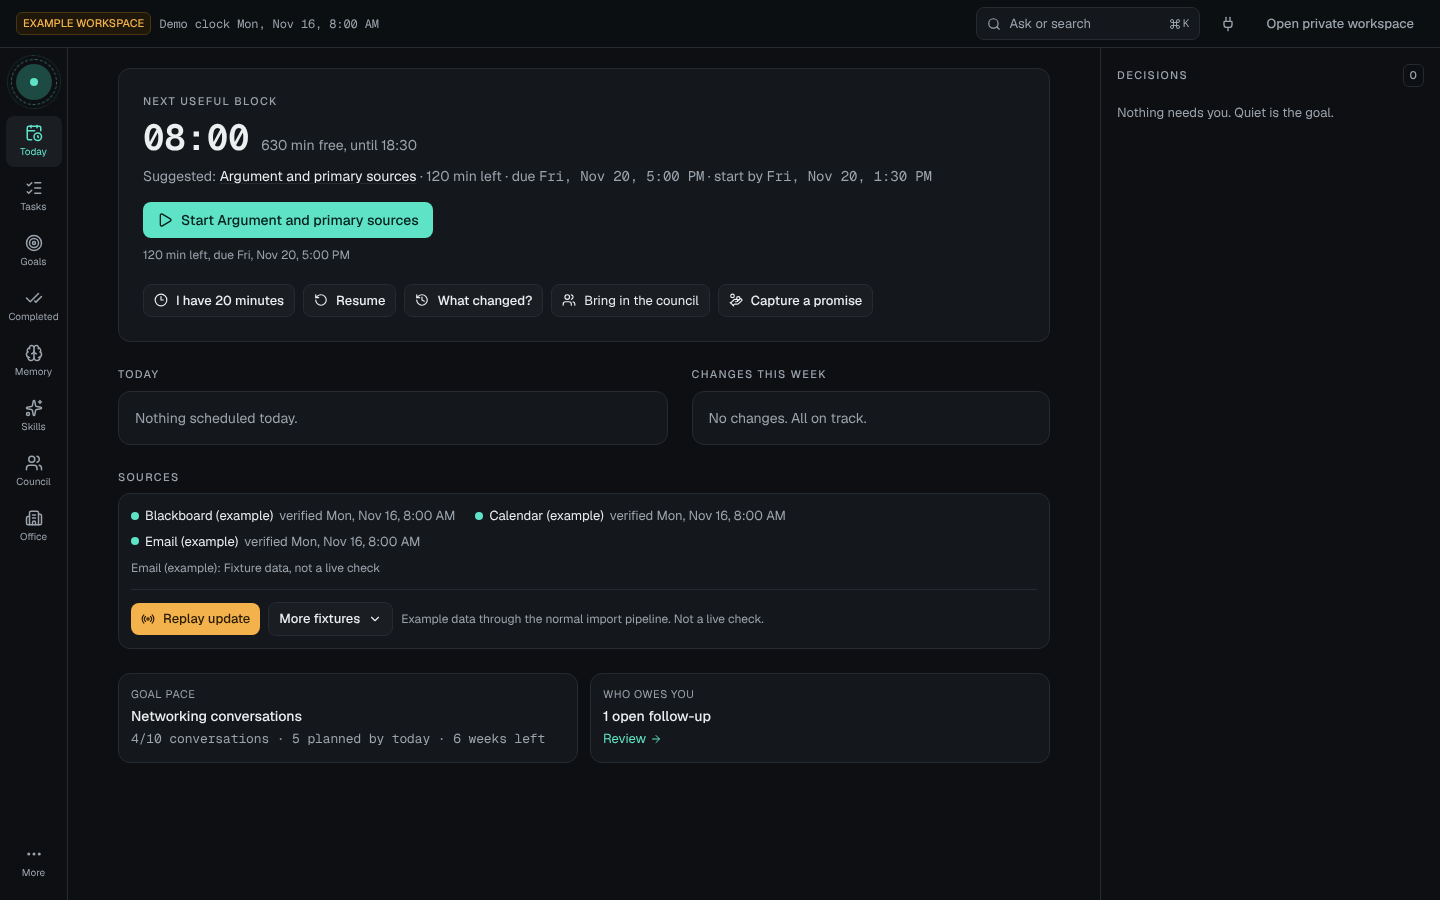
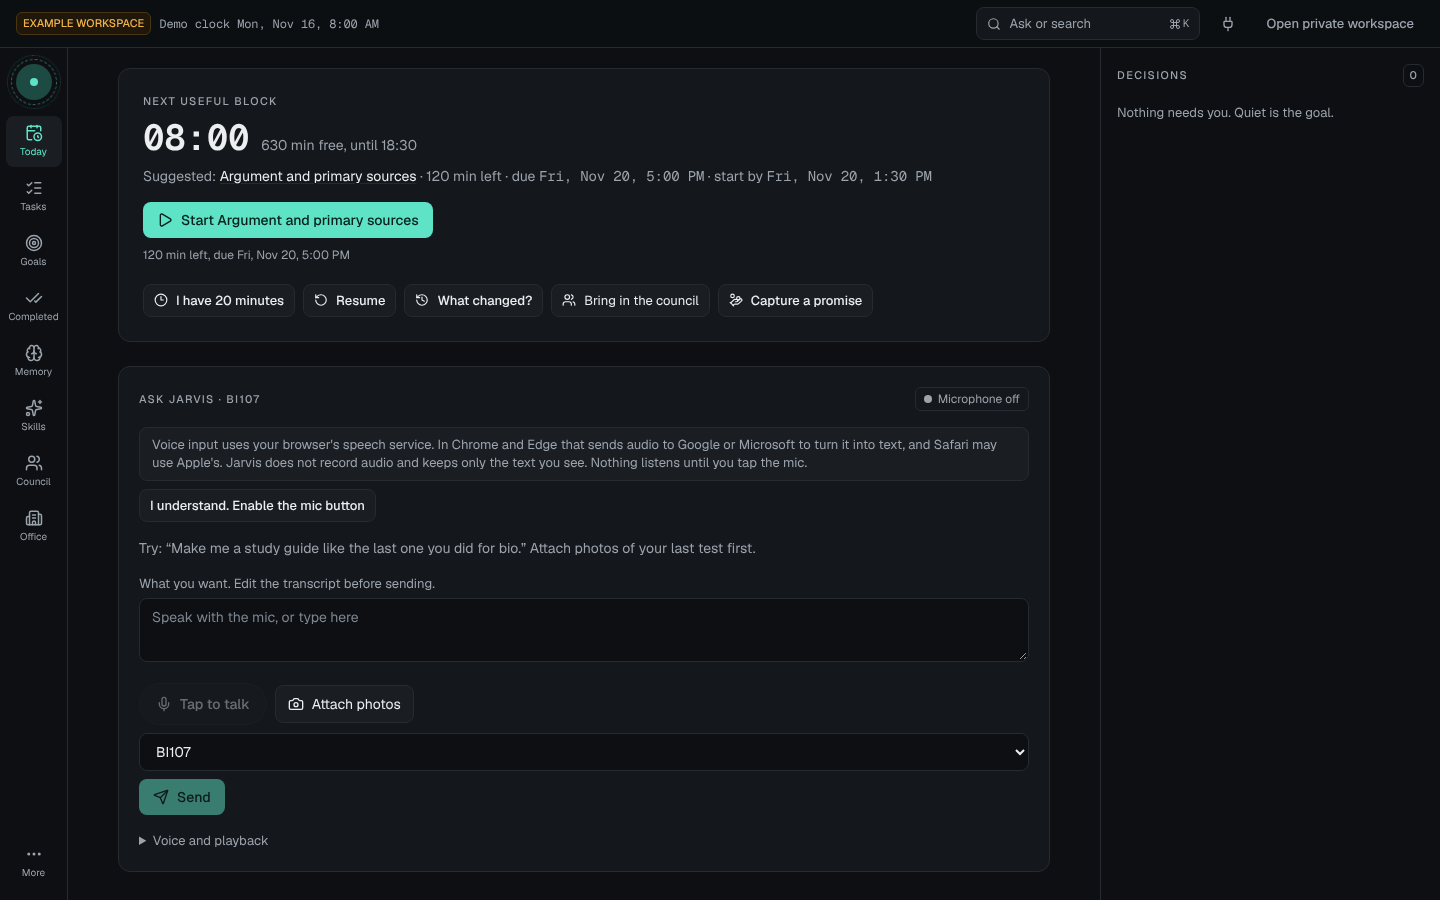
Reset clears Office, capture and study tables; docs for capture and Mac checklist

diff --git a/scripts/e2e.ts b/scripts/e2e.ts
@@ -20,7 +20,8 @@ function startWorker(pace: number) {
   stopWorker();
   worker = spawn("npx", ["tsx", "scripts/worker.ts"], { env: { ...process.env, JARVIS_DATA_DIR: dataDir, JARVIS_JOB_PACE_MS: String(pace), JARVIS_JOB_LEASE_MS: "3000" }, stdio: "ignore", detached: true });
 }
-async function restartServer() { const d = dataDir!; stopWorker(); if (server?.pid) { try { process.kill(-server.pid, "SIGTERM"); } catch { /* gone */ } } await new Promise((r) => setTimeout(r, 1200)); await startServer(d); }
+let restarting = false;
+async function restartServer() { restarting = true; const d = dataDir!; stopWorker(); if (server?.pid) { try { process.kill(-server.pid, "SIGTERM"); } catch { /* gone */ } } await new Promise((r) => setTimeout(r, 1200)); await startServer(d); restarting = false; }
 function killServer() { stopWorker(); if (server?.pid) { try { process.kill(-server.pid, "SIGTERM"); } catch { /* already gone */ } } }
 const problems: string[] = [];
 const steps: string[] = [];
@@ -38,9 +39,9 @@ async function startServer(reuseDir?: string) {
 }
 
 function watch(page: Page, label: string) {
-  page.on("console", (m) => { if (m.type() === "error") { const t = m.text(); if (!/favicon/.test(t) && !problems.includes(`console(${label}): ${t}`)) problems.push(`console(${label}): ${t}`); } });
+  page.on("console", (m) => { if (m.type() === "error") { const t = m.text(); if (!(restarting && /ERR_CONNECTION_REFUSED/.test(t)) && !/favicon/.test(t) && !problems.includes(`console(${label}): ${t}`)) problems.push(`console(${label}): ${t}`); } });
   page.on("pageerror", (e) => problems.push(`pageerror(${label}): ${e.message}`));
-  page.on("requestfailed", (r) => { if (!/_next\/webpack-hmr|\.map$/.test(r.url()) && !/ERR_ABORTED/.test(r.failure()?.errorText ?? "")) problems.push(`requestfailed(${label}): ${r.url()} ${r.failure()?.errorText}`); });
+  page.on("requestfailed", (r) => { if (!/_next\/webpack-hmr|\.map$/.test(r.url()) && !/ERR_ABORTED/.test(r.failure()?.errorText ?? "") && !(restarting && /ERR_CONNECTION_REFUSED/.test(r.failure()?.errorText ?? ""))) problems.push(`requestfailed(${label}): ${r.url()} ${r.failure()?.errorText}`); });
   page.on("response", (r) => { if (r.status() >= 400 && !r.url().includes("/__expect")) problems.push(`http ${r.status()}(${label}): ${r.request().method()} ${r.url()}`); });
 }
 const shot = (page: Page, name: string) => page.screenshot({ path: path.join(SHOTS, name), fullPage: false });
@@ -514,7 +515,8 @@ async function journeyA11y(browser: Browser) {
     const ctx = await browser.newContext({ viewport: { width: vp.w, height: vp.h } });
     const page = await ctx.newPage(); watch(page, `a11y-${vp.n}`);
     await post("/demo/reset", { confirm: "RESET DEMO" }); await post("/demo/replay", { name: "bulletin" });
-    for (const p of ["/", "/tasks", "/goals", "/completed", "/memory", "/skills", "/council", "/sources", "/voice", "/settings", "/activity"]) {
+    const gid = (await api("/courses/BI107")).documents.find((d: any) => /Final/.test(d.title))?.id;
+    for (const p of ["/", "/tasks", "/goals", "/completed", "/memory", "/skills", "/council", "/sources", "/voice", "/settings", "/activity", "/office", "/courses", "/courses/BI107", ...(gid ? [`/guides/${gid}`] : [])]) {
       await page.goto(base + p); await page.waitForLoadState("networkidle"); await scan(page, `${p} (${vp.n})`);
     }
     await page.goto(base + (vp.n === "phone" ? "/decisions" : "/")); await page.getByTestId("decision-card").first().waitFor();

diff --git a/tests/study.test.ts b/tests/study.test.ts
@@ -315,3 +315,23 @@ describe("one front door", () => {
     expect(handleUtterance(ctx, { text: "make me a study guide", conversationId: conv }).reply.text).toMatch(/Which course/);
   });
 });
+
+describe("resetting the example workspace", () => {
+  it("clears jobs, captures, conversations, documents, quizzes and photos, so a reset starts from the true Monday state", async () => {
+    const dir = tmpDataDir(); closeDb("demo");
+    const { resetDemo } = await import("@/lib/demo"); const { captureToJarvis } = await import("@/lib/capture");
+    const ctx = makeCtx("demo"); seedDemo(ctx); ensureBi107(ctx);
+    const ph = FIXTURE_PHOTOS().map((p) => saveAttachment(ctx, { course: "BI107", name: p.name, bytes: p.bytes }));
+    captureToJarvis(ctx, { text: "Remember for Jarvis: I owe the TAMID team three pitch angles by Thursday.", sourceKind: "claude-chat" });
+    handleUtterance(ctx, { text: "make me a study guide for BI107", conversationId: getConversation(ctx, null, "BI107").id as string, attachmentIds: ph.map((p) => p.id) });
+    await processQueue(ctx, fast(ctx));
+    const id = get(ctx.db, "SELECT id FROM documents WHERE title='BI107 Final study guide'")!.id as string; startQuiz(ctx, { docId: id, mode: "all" });
+    expect(fs.readdirSync(path.join(dir, "demo", "attachments")).length).toBe(2);
+    resetDemo(ctx);
+    for (const t of ["jobs", "job_steps", "job_events", "captures", "conversations", "messages", "documents", "document_versions", "quiz_attempts", "quiz_answers", "attachments", "specialist_templates"]) expect(count(ctx, t), t).toBe(0);
+    expect(fs.existsSync(path.join(dir, "demo", "attachments"))).toBe(false);
+    seedDemo(ctx); ensureBi107(ctx);
+    expect(get(ctx.db, "SELECT current_version v FROM documents WHERE title='BI107 Midterm study guide'")!.v).toBe(1);   // not v2
+    closeDb("demo");
+  });
+});

diff --git a/src/lib/demo.ts b/src/lib/demo.ts
@@ -120,11 +120,11 @@ export function replay(ctx: Ctx, name: FixtureName) {
   return out;
 }
 
-const TABLES = ["skill_uses", "skill_corrections", "skills", "council_sessions", "goal_observations", "goals", "checkpoints", "practice_results", "time_logs", "advisor_sources", "commitment_events", "commitments", "student_record", "deliveries", "inbox", "decisions", "requirements", "task_events", "task_due_history", "blocks", "tasks", "source_revisions", "source_status", "sources", "courses", "notes", "runs", "activity", "schedule_runs", "import_previews", "settings"];
+const TABLES = ["quiz_answers", "quiz_attempts", "document_versions", "documents", "messages", "conversations", "attachments", "job_events", "job_steps", "jobs", "specialist_templates", "captures", "skill_uses", "skill_corrections", "skills", "council_sessions", "goal_observations", "goals", "checkpoints", "practice_results", "time_logs", "advisor_sources", "commitment_events", "commitments", "student_record", "deliveries", "inbox", "decisions", "requirements", "task_events", "task_due_history", "blocks", "tasks", "source_revisions", "source_status", "sources", "courses", "notes", "runs", "activity", "schedule_runs", "import_previews", "settings"];
 
 /** Erase this workspace's data (not its watched inbox files). Demo reset and personal erase share this and each only touches its own directory. */
 export function wipe(ctx: Ctx) {
-  for (const d of ["vault", "skills"]) fs.rmSync(path.join(/*turbopackIgnore: true*/ modeDir(ctx.mode), d), { recursive: true, force: true });
+  for (const d of ["vault", "skills", "attachments"]) fs.rmSync(path.join(/*turbopackIgnore: true*/ modeDir(ctx.mode), d), { recursive: true, force: true });
   tx(ctx.db, () => { ctx.db.exec("DELETE FROM notes_fts"); for (const t of TABLES) ctx.db.exec(`DELETE FROM ${t}`); });
 }
 

diff --git a/docs/CAPTURE-SETUP.md b/docs/CAPTURE-SETUP.md
@@ -1,0 +1,63 @@
+# Capture from ordinary Claude, and the connector
+
+What this does: you say "Remember for Jarvis: I owe the TAMID team three pitch angles by Thursday." in Claude. Claude calls `save_to_jarvis`. Jarvis saves the commitment at once, returns a receipt with a link, and wakes the supervisor in the Office, which assigns a specialist and puts one decision on your desk. Say it twice and nothing is duplicated.
+
+## Honest limits
+
+- A connector gives Claude two tools. It is **not** a feed of your Claude chats. Jarvis only knows what you asked it to remember, pasted, imported or attached. If you ask for something old and it is missing, Jarvis says exactly what to share.
+- General chats: "Remember for Jarvis" is the explicit trigger. Claude Project auto-save is opt-in and is a Project instruction (below), not something Jarvis can switch on for you.
+- This build ships the connector and tested it with the official MCP client. It has **not** been connected to a real Claude account from here. See "What only you can verify".
+
+## Option A: Claude Desktop on your Mac (stdio, no deployment)
+
+1. Install and set up Jarvis (`npm install`).
+2. In Claude Desktop, open the MCP config and add:
+   ```json
+   { "mcpServers": { "jarvis": { "command": "npx", "args": ["tsx", "/ABSOLUTE/PATH/TO/Jarvis/scripts/mcp-server.ts"], "env": { "JARVIS_MCP_MODE": "demo", "JARVIS_DATA_DIR": "/ABSOLUTE/PATH/TO/Jarvis/data" } } } }
+   ```
+   Use `"personal"` to write to your private workspace. Restart Claude Desktop.
+3. Keep `npm run dev` (or `npm run worker`) running. The stdio server saves captures, and whichever runner is up does the Office work.
+4. In a Claude chat say: `Remember for Jarvis: I owe the TAMID team three pitch angles by Thursday.` Claude should show a `save_to_jarvis` tool call and a receipt with a link.
+
+## Option B: an authenticated HTTP connector (for claude.ai or anything remote)
+
+1. Pick a long random token and start Jarvis with it:
+   ```bash
+   JARVIS_MCP_TOKEN="$(openssl rand -hex 24)" npm run start
+   ```
+2. The endpoint is `POST /mcp` (stateless Streamable HTTP). Every request needs `Authorization: Bearer <token>`. Without the env var it answers 503, with a wrong token 401. It accepts loopback hosts only unless you list yours in `JARVIS_MCP_ALLOWED_HOSTS`.
+3. **Run the smoke test first** (this is the one real check of an authorized connector path):
+   ```bash
+   npm run mcp:smoke -- http://127.0.0.1:3000/mcp "$JARVIS_MCP_TOKEN"
+   ```
+   It saves one synthetic capture, replays it to prove deduplication, and recalls it.
+4. To reach it from claude.ai or the phone you must put it behind HTTPS on a host you control. A localhost URL cannot serve Claude mobile. **Check the current Claude custom-connector documentation for which authentication it accepts.** This build supports a static bearer token only. If your Claude plan requires OAuth for remote connectors, that is not built.
+
+## Claude Project that saves confirmed decisions (opt in)
+
+Create a Project and add this to its instructions:
+
+> When I clearly confirm a decision or a commitment I owe someone, call `save_to_jarvis` once with a one-sentence statement that starts with "Remember for Jarvis:". Do not save anything I have not confirmed. Never save private reflections. If a save returns `duplicate: true`, say it was already saved.
+
+In ordinary chats outside that Project, nothing is saved unless you say "Remember for Jarvis".
+
+## Undo
+
+Office → the receipt → **Undo**. It removes the commitment, the work item and the decision, cancels the jobs, and a replay of the same words will not bring them back.
+
+## Other sources, and their status
+
+| Source | Status here |
+|---|---|
+| Pasted text, Office capture box | works, tested |
+| Connector tools (stdio and HTTP) | works, tested with the official MCP client |
+| Email that brings a deadline forward for a commitment | works, tested (updates once, one decision, never sends) |
+| Selected Claude conversation export or share | not built |
+| Gmail with OAuth, label watching, renewal | not built (needs your Google OAuth app) |
+| WhatsApp or Apple Messages | reviewed paste or forward only, via capture. No account access |
+| WhatsApp Business signed webhook | not built |
+| Calendar feed, Blackboard | as in the first handoff |
+
+## What only you can verify
+
+Adding the connector in your own Claude account and seeing a real `save_to_jarvis` call. Nothing in this repo has touched a Claude account.

diff --git a/docs/MAC-CHECKLIST.md b/docs/MAC-CHECKLIST.md
@@ -1,0 +1,47 @@
+# Mac checklist: microphone, audible replies, live Claude
+
+Do these in order. Each is a few minutes. Nothing here spends money until step 5.
+
+## 1. Launch
+```bash
+git fetch origin claude/upbeat-cannon-wf5kxf && git checkout claude/upbeat-cannon-wf5kxf
+npm install
+npm run dev
+```
+Open http://127.0.0.1:3000 in **Chrome or Safari**. (Voice input uses the browser's speech service. Firefox has none.)
+
+## 2. Microphone (Today → Ask Jarvis)
+- [ ] Read the disclosure (it names Google, Microsoft or Apple as the speech service). Click **I understand**.
+- [ ] Click **Tap to talk**. The browser asks for the microphone. Allow it.
+- [ ] The pill says **Microphone on, listening**. Say: "Make me a study guide like the last one you did for bio."
+- [ ] Your words appear in the transcript box. They are **not** sent. Edit one word.
+- [ ] Click **Tap to stop**. The pill says **Microphone off**. Check the macOS menu bar: the orange mic dot is gone.
+- [ ] Leave the page. The dot must not come back.
+If it says permission denied: System Settings → Privacy & Security → Microphone → enable your browser, then reload.
+
+## 3. Audible replies
+- [ ] Open **Voice and playback**. Pick a voice. The default prefers a British English one (Daniel, Serena, Kate). **Preview** plays it.
+- [ ] If you have no British voice: System Settings → Accessibility → Spoken Content → System Voice → Manage Voices, download "Daniel" or "Serena (Enhanced)", reload.
+- [ ] Attach two photos (any two pictures; the sample ones are in `fixtures/bi107/`), choose **BI107**, **Send**. You hear a one or two sentence acknowledgment.
+- [ ] While it speaks, tap **Tap to talk**: it should stop talking. **Stop talking** and **Mute** also work.
+- [ ] Open **Office** (left rail). Watch Intake, Research and Planning helpers work. Click one.
+- [ ] When the guide is ready you hear: "…Want me to open it, or shall I ask the first question?" Even if you were on another page.
+
+## 4. The guide
+- [ ] **Open guide**: answers are hidden. **Quiz me**, miss a few. Say "Quiz me on what I missed."
+- [ ] **Export PDF** and **PDF with answer key** open in a tab.
+Note: the sample photos are synthetic, so the example workspace reads them with a labeled fixture reading. Your own photos need step 5 to be read.
+
+## 5. Live Claude (the only step that spends money)
+1. Create `.env` in the repo root (copy `.env.example`): `ANTHROPIC_API_KEY=your key`.
+2. Restart `npm run dev`. Open **Settings → Claude model provider**, set **Daily budget** to something small like 1, save.
+3. Click **Test Claude**. Expect "Claude responded on claude-haiku-5-5 (low)". That one call is the only live verification of the API path.
+4. Repeat step 3 of the checklist with **your real test photos**. The research helper now sends each photo to Claude (one call per photo) and the writer makes one call. In the Office inspector the helper shows its model calls. Check the guide's "Question style from photos" says **read**, and the generator says **claude**, not fixture.
+5. Check the guide's answer-key check line. Skim a few questions against your notes. Jarvis flags what the notes do not support, but you are the final check.
+Premium (Fable) stays off. It needs three separate opt-ins.
+
+## 6. Optional: the connector
+See `docs/CAPTURE-SETUP.md`. The smoke test is `npm run mcp:smoke -- <url> <token>`.
+
+## What this checklist cannot cover
+Claude's own voice mode on your phone is a separate product and does not drive this app.

diff --git a/README.md b/README.md
@@ -29,7 +29,9 @@ The server binds to loopback only. It rejects other hosts and other origins on e
 2. Click that decision. Read the quote, both dates, the print requirement for articles 4, 13, 16 and 31, and **Both versions and copies**.
 3. Click **Reserve**. Two local blocks are created. They are not on Google Calendar.
 4. Refresh. The decision stays decided. Click **Replay update** again: nothing changes.
-5. Open **Council**, **Load the sample essay**, **Bring in the council**. Then type "You missed the printed excerpt last time." under **Correct Jarvis** and look at **Skills**.
+5. Open **Office**, press **Send as synthetic Claude message**, and watch a supervisor assign a helper and put one decision on your desk. Replay it: nothing doubles.
+6. Back on Today, use **Ask Jarvis**: tap the mic (or type), attach the two photos from `fixtures/bi107/`, send. See `docs/MAC-CHECKLIST.md`.
+7. Open **Council**, **Load the sample essay**, **Bring in the council**. Then type "You missed the printed excerpt last time." under **Correct Jarvis** and look at **Skills**.
 
 ## Commands
 
@@ -38,7 +40,9 @@ The server binds to loopback only. It rejects other hosts and other origins on e
 | `npm run verify` | typecheck, all tests, production build |
 | `npm test` | 75 tests: domain, API boundary, imports, scheduler, router, council, skills, MCP over stdio, Postgres RLS |
 | `npm run e2e` | real-browser journey (needs `npm run build` first). Saves screenshots to `docs/screenshots/` |
-| `npm run worker` | unattended scheduler with a heartbeat (checks 08:00 and 16:00 New York, weekly Sunday 15:00) |
+| `npm run worker` | unattended scheduler and job runner with a heartbeat (checks 08:00 and 16:00 New York, weekly Sunday 15:00; runs Office jobs) |
+| `npm run mcp:smoke -- <url> <token>` | smoke test for an authorized MCP connector (see docs/CAPTURE-SETUP.md) |
+| `npm run fixtures` | rewrite the two synthetic BI107 test photos in `fixtures/bi107/` |
 | `npm run mcp` | opt-in local MCP server over stdio |
 | `npm run reset-demo` | resets the example workspace only |
 

diff --git a/docs/SURFACES.md b/docs/SURFACES.md
@@ -26,3 +26,17 @@ These are different products with different credentials, schedules and usage. Mi
 - **Real process:** `npm run worker`. It writes a heartbeat. The app says "Worker running" only while that heartbeat is fresh, and says "No worker is running" otherwise.
 - **Cowork alternative:** create a scheduled task that checks your mail connector and saves new Blackboard notification emails as `.eml` files into the watched folder shown on the Sources page. The worker or **Run now** then ingests them. This setup is described, not tested here.
 - An in-browser timer is not used and would not count.
+
+## Where the Office and its jobs run (added)
+
+| Piece | Where it runs | Needs a connected device? |
+|---|---|---|
+| Job queue and leases | the SQLite file in `data/<workspace>/` | No. It is just a file. |
+| **App-server runner** | inside `npm run dev` / `npm run start` | Only while that process is alive, which means your Mac awake and the app running. It writes a heartbeat the Office shows. |
+| **Worker** (`npm run worker`) | a separate process, any always-on machine with the repo and the same data folder | Yes: that machine must be on. For all-day use run it there. It also runs the 08:00 and 16:00 checks. |
+| Recovery | a restarted runner re-queues any job whose lease expired (default 15 s) and finishes it. Completed steps are not repeated | n/a |
+| Cowork / cloud | **not** used for the Office. A cloud session or a sleeping Mac cannot run these jobs or read your local data | n/a |
+
+Two runners can be up together. Leases stop them taking the same job. If neither is running, jobs wait and the Office says "No runner active".
+
+Voice and photos run in your browser plus this app's server. The server calls Claude directly for image reading and question writing (when a key and budget exist). Regular Claude Voice is a separate front door that can reach Jarvis only through the connector tools in `docs/CAPTURE-SETUP.md`. It was not tested here.

diff --git a/UPSTREAM.md b/UPSTREAM.md
@@ -30,3 +30,9 @@ Three pinned checkouts were fetched with the brief's sparse-checkout block into 
 ## Additional references (documentation only, not fetched into the repo)
 
 Chief-of-staff cookbook, Agent SDK for TypeScript, skill authoring best practices, Anthropic multi-agent architecture, Obsidian storage, BU Blackboard notification settings, Cowork scheduling, Claude Dispatch, Claude Voice, Claude Code cloud. Capability claims about these surfaces are written as setup guidance in `docs/SURFACES.md` and were not verified live from this build environment.
+
+## pixel-agents-hq/pixel-agents (design reference for the Office, added)
+
+- **License:** the repository's top-level `LICENSE` is MIT (Copyright (c) 2026 Pablo De Lucca). Read at `main`, not at a pinned revision.
+- **What was read:** only that license text. I did **not** read its code or look at its art, and I did **not** check the license of any pixel-art assets or tilesets, which can differ from the code license.
+- **What was reused:** nothing. The Office is an original SVG scene (`src/components/OfficeScene.tsx`). Sprites are drawn from rectangles in code, and the layout (Intake, Research, Planning and Decisions rooms, a supervisor desk, a door) is my own. Pixel Agents was only the idea that agents can be seen as characters at desks. If you later want to borrow its code or art, check the asset licenses first.
